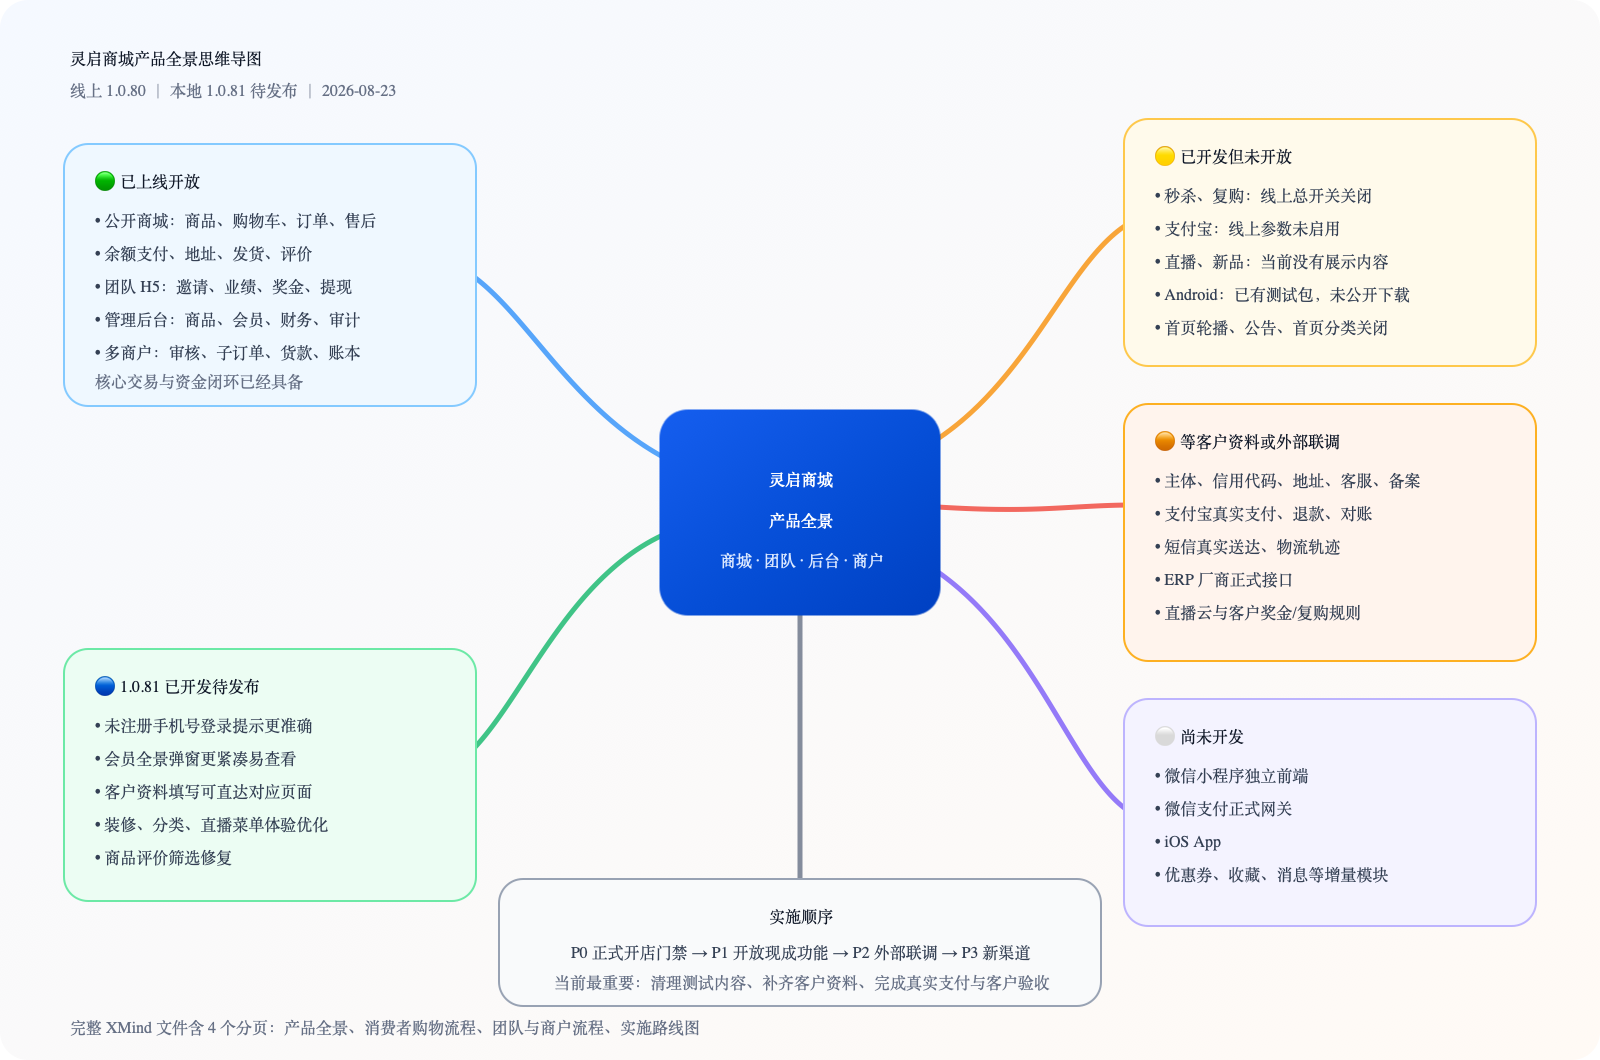
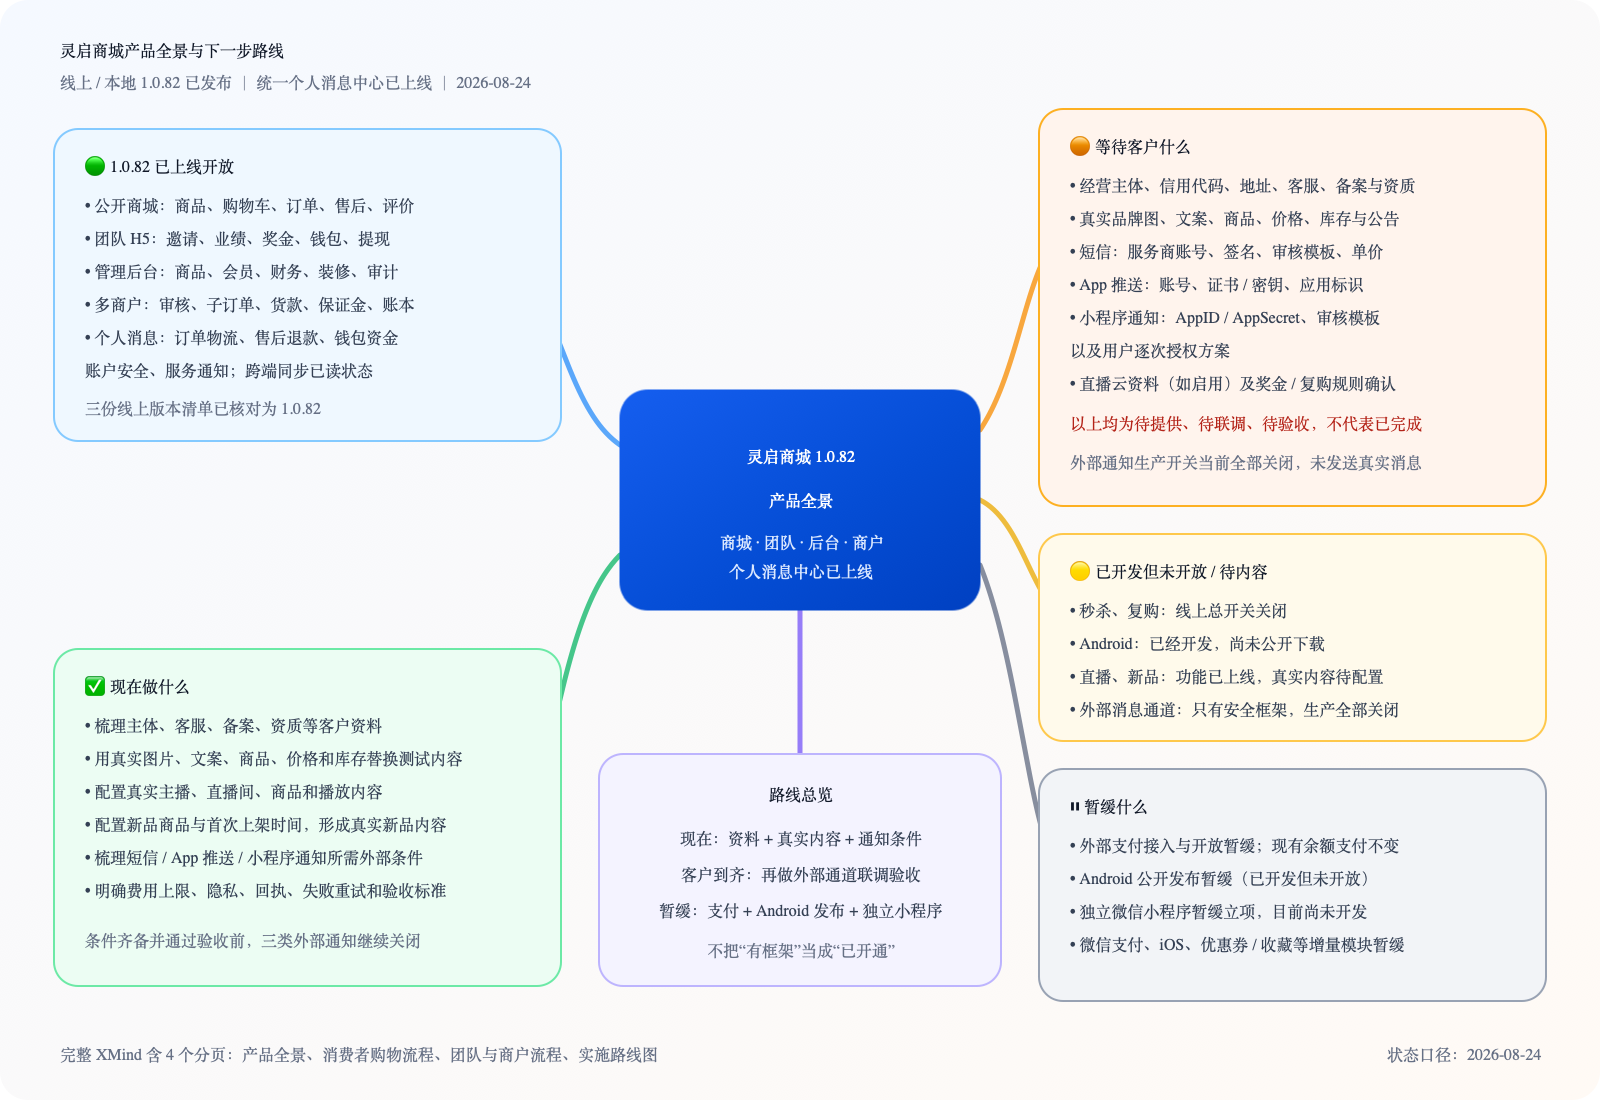
AI更新代码

diff --git a/document/DAILY_LOG.md b/document/DAILY_LOG.md
@@ -8,6 +8,9 @@
 - 发布前备份 `/opt/lingqimall/backups/full/20260824_135726` 完成哈希、压缩、关键对象复验及临时库真实恢复演练；发布后备份 `/opt/lingqimall/backups/full/20260824_135801` 完成只读完整性复验。线上迁移为 22/22、失败 0，第 22 项仅登记一次，消息四表、15 模板、15 渠道、五类、7 索引正确，短信/App 推送/小程序订阅全部关闭。
 - 发布前后核心计数保持 `45:2:18:27:58:13450.00:5:6:3`，待处理奖金、ERP、移线、超时订单和明文敏感字段均为 0，字段加密配置与前后备份一致。后端、Nginx、MySQL、Redis active，健康 `UP`、Redis `PONG`、发布后严重日志 0；Nginx 仅有既有 OCSP 非阻断警告。
 - 公网二次验收通过三端版本/构建身份、公开首页与核心接口、安全头、敏感路径、消息中心和后台消息运营的登录保护。公开商城浏览器实测验证码登录不显示图形验证码，密码登录和注册显示图形验证码，未发送真实短信；公开/团队已部署消息入口、`99+`、五类和全部已读资源，后台已部署消息运营与外部通道关闭说明。生产个人消息和发送任务均为 0，且没有现成浏览器登录会话，因此未制造订单、资金或个人消息；登录态已读同步、公告隔离、越权和受控跳转以冻结候选精确自动化结果验收，线上补做实际结构与 401 边界复核。生产临时候选包已安全清理，两份备份与回滚证据保留。
+- 将 `document/灵启商城产品全景与实施规划.xmind` 及 SVG/PNG 预览更新到线上、本地均为 `1.0.82` 的当前状态：统一个人消息中心明确标为已上线，短信、App 推送、小程序订阅只标记为已有安全任务框架且生产全部关闭，未把账号、模板、证书、授权、费用、隐私或真实送达等外部条件写成已完成。四页 XMind 新增个人消息业务位置，并把实施路线改为老板可直接判断的“现在做什么、等待客户什么、暂缓什么”。
+- 当前优先路线为梳理经营主体、客服、备案与资质等客户资料，替换测试内容为真实品牌、商品、价格、库存与公告，配置真实直播和新品内容，同时列清三类外部通知所需账号、模板、证书、授权、费用与验收条件；资料齐备前外部通知继续关闭。外部支付接入与开放暂缓，现有余额支付不变；Android 已开发但公开发布暂缓；独立微信小程序暂缓立项且明确尚未开发。
+- XMind 压缩结构、`content.json` / `metadata.json` / `manifest.json`、四个分页、主题编号唯一性和关键状态词检查通过，未发现旧 `1.0.80` / `1.0.81 已开发待发布` 口径；PNG 重新生成为 1600×1100 并完成视觉验收，无裁切或不可读内容。本轮只更新产品全景文档、预览和日志，未修改业务代码、数据库、服务器，也未发布。
 
 - 本地版本升为 `1.0.82`（已开发待发布），完成统一个人消息中心第一阶段。公告保持独立且不计个人未读；新增五类个人消息、服务端已读同步、分页/详情/未读/单条/分类/全部已读接口、稳定事件键、历史快照、双重归属校验、受控业务跳转和消息落库后实时红点刷新。接管复核进一步补齐实时连接的租户边界、跨端已读 30 秒固定回源、业务目标编号完整性和成员/租户越权测试。
 - 接入现有真实订单支付/关闭/发货/收货、售后申请及关键状态/退款完成、钱包流水、提现提交/审核/打款、登录密码/手机号/支付密码变化。消息写入和外部通道均为业务旁路，失败不回滚订单、售后或资金；正文与普通日志不保存完整金额、卡号、地址、手机号、退款原因、验证码或密码。
